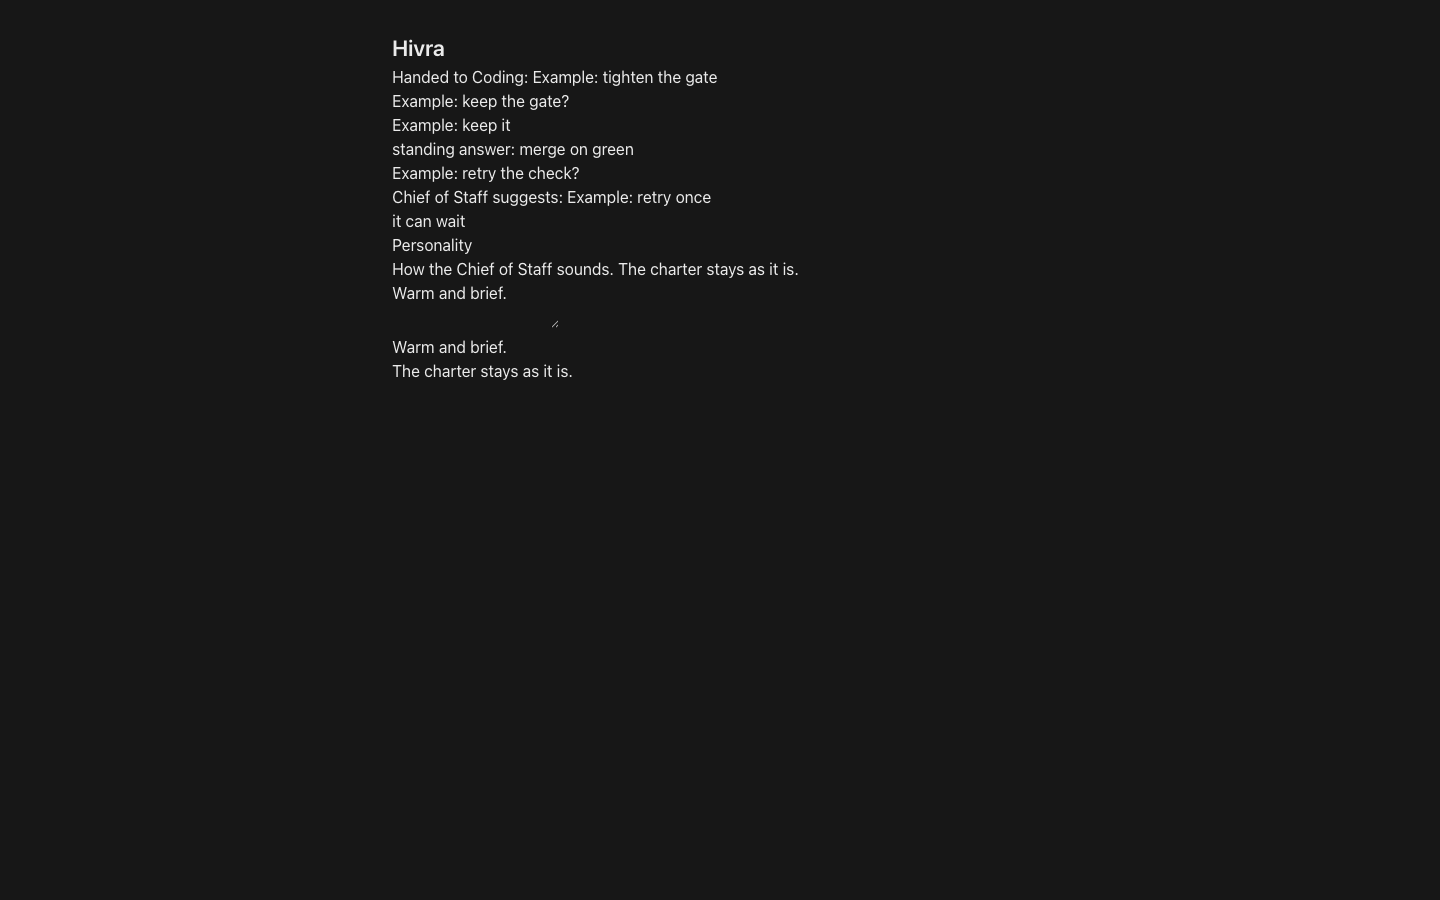
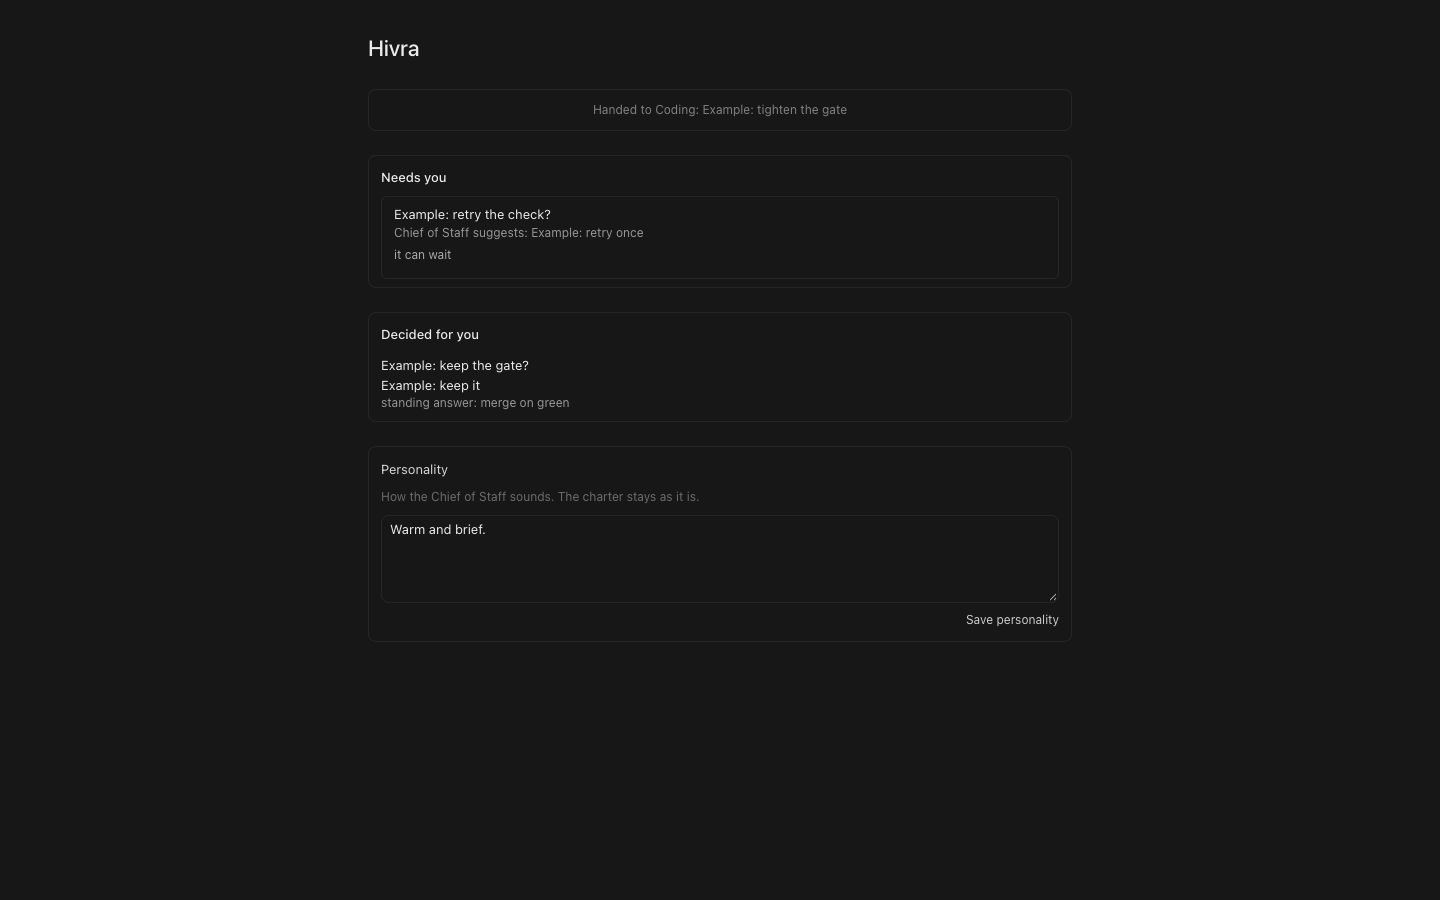
Show the captain lines in the app's own components
The handoff uses the chat's system line, the passed-up item uses the question row, and decided-for-you is a plain list in the app's tokens.

diff --git a/tests/browser/wp215-captain.tsx b/tests/browser/wp215-captain.tsx
@@ -1,11 +1,16 @@
 // Browser proof for the captain (WP-215). Example rows only. The charter text stays off the page.
-import { useState } from "react";
+import { useLayoutEffect, useRef } from "react";
 import { createRoot } from "react-dom/client";
 import { captainDecide, handoffLine, suggestLine } from "../../src/features/chief/model/captain";
 import { CAPTAIN_CHARTER, applyPersonality, personalityOf } from "../../src/features/chief/model/charter";
+import { CaptainPersonality } from "../../src/features/chief/ui/CaptainPersonality";
+import type { FirstMateItem } from "../../src/features/crew/model/inbox";
+import { FirstMateInbox } from "../../src/features/crew/ui/FirstMateInbox";
+import { RoomMessage } from "../../src/features/hub/ui/RoomMessage";
+import type { ChatMessage } from "../../src/features/hub/model/types";
 import "../../src/styles/index.css";
 
-const soul = `# Soul\n\n## Role\n${CAPTAIN_CHARTER}\n\n## Personality\n\n## Who I am\nI am the coordinator.\n\n## Every project\n\nEvery project: read\n`;
+const soul = `# Soul\n\n## Role\n${CAPTAIN_CHARTER}\n\n## Personality\nWarm and brief.\n\n## Who I am\nI am the coordinator.\n`;
 
 const standing = captainDecide({
   project: "Hivra",
@@ -30,33 +35,73 @@ const passed = captainDecide({
   turn: () => ({ passUp: true, suggest: "Example: retry once", reason: "it can wait" }),
 });
 
+const handoff = handoffLine("Coding", "Example: tighten the gate");
+const suggestion = passed.kind === "ask-owner" && passed.line ? passed.line : suggestLine("Example: retry once");
+const reason = passed.kind === "ask-owner" ? passed.reason : "";
+const answer = standing.kind === "answer" ? standing.answer : "";
+const why = standing.kind === "answer" ? standing.reason : "";
+
+const handoffMessage: ChatMessage = { id: "handoff", from: "app", kind: "system", text: handoff };
+
+const passedUp: FirstMateItem = {
+  id: "pass",
+  kind: "question",
+  title: "Example: retry the check?",
+  body: reason,
+  statusWord: suggestion,
+  chatId: null,
+  workerIds: [],
+  options: [],
+  recommended: null,
+  project: "EXO",
+  key: null,
+  since: 0,
+  updatedAt: 1,
+};
+
 function Page() {
-  const [text, setText] = useState("Warm and brief.");
-  const next = applyPersonality(soul, text);
-  const kept = next.includes(CAPTAIN_CHARTER) && next.indexOf(CAPTAIN_CHARTER) === soul.indexOf(CAPTAIN_CHARTER);
-  const handoff = handoffLine("Coding", "Example: tighten the gate");
-  const suggestion = passed.kind === "ask-owner" && passed.line ? passed.line : suggestLine("Example: retry once");
+  const passRef = useRef<HTMLDivElement>(null);
+  const kept = applyPersonality(soul, personalityOf(soul)).includes(CAPTAIN_CHARTER);
+  useLayoutEffect(() => {
+    const lines = passRef.current?.querySelectorAll("article p");
+    lines?.[0]?.setAttribute("data-testid", "passup");
+    lines?.[1]?.setAttribute("data-testid", "passup-reason");
+  }, []);
   return (
-    <main style={{ maxWidth: 720, margin: "0 auto", padding: 32, fontFamily: "system-ui, sans-serif" }}>
-      <h1 style={{ fontSize: 22, fontWeight: 600 }}>Hivra</h1>
-      <p data-testid="handoff">{handoff}</p>
-      <section>
-        <h2 style={{ fontSize: 16 }}>Example: keep the gate?</h2>
-        <p data-testid="standing-answer">{standing.kind === "answer" ? standing.answer : ""}</p>
-        <p data-testid="standing-reason">{standing.kind === "answer" ? standing.reason : ""}</p>
-      </section>
-      <section>
-        <h2 style={{ fontSize: 16 }}>Example: retry the check?</h2>
-        <p data-testid="passup">{suggestion}</p>
-        <p data-testid="passup-reason">{passed.kind === "ask-owner" ? passed.reason : ""}</p>
-      </section>
-      <section>
-        <h2 style={{ fontSize: 16 }}>Personality</h2>
-        <p>How the Chief of Staff sounds. The charter stays as it is.</p>
-        <textarea aria-label="Personality" value={text} onChange={(event) => setText(event.target.value)} />
-        <p data-testid="personality">{personalityOf(next)}</p>
-        <p data-testid="charter-kept">{kept ? "The charter stays as it is." : "The charter moved."}</p>
-      </section>
+    <main className="min-h-screen bg-background-base text-content">
+      <div className="mx-auto flex max-w-3xl flex-col gap-6 px-8 py-8">
+        <h1 className="text-[22px] font-medium text-content">Hivra</h1>
+        <section className="rounded-lg border border-stroke px-3 py-3" data-testid="handoff">
+          <RoomMessage chatId="room" message={handoffMessage} messages={[handoffMessage]} nameOf={() => "App"} />
+        </section>
+        <section className="rounded-lg border border-stroke">
+          <h2 className="px-3 pt-3 text-[13px] font-medium text-content">Needs you</h2>
+          <div ref={passRef}>
+            <FirstMateInbox items={[passedUp]} />
+          </div>
+        </section>
+        <section className="rounded-lg border border-stroke">
+          <h2 className="px-3 pt-3 text-[13px] font-medium text-content">Decided for you</h2>
+          <div className="px-3 py-2.5">
+            <div className="break-words text-[13px] leading-5 text-content">Example: keep the gate?</div>
+            <div className="break-words text-[13px] leading-5 text-content" data-testid="standing-answer">
+              {answer}
+            </div>
+            <div className="text-xs text-content/60" data-testid="standing-reason">
+              {why}
+            </div>
+          </div>
+        </section>
+        <section className="rounded-lg border border-stroke">
+          <CaptainPersonality monoId="ada" soul={soul} />
+          <p className="sr-only" data-testid="personality">
+            {personalityOf(soul)}
+          </p>
+          <p className="sr-only" data-testid="charter-kept">
+            {kept ? "The charter stays as it is." : "The charter moved."}
+          </p>
+        </section>
+      </div>
     </main>
   );
 }

diff --git a/tests/browser/wp215-captain.html b/tests/browser/wp215-captain.html
@@ -4,7 +4,7 @@
     <meta charset="UTF-8" />
     <title>Chief of Staff</title>
   </head>
-  <body style="margin: 0; background: #1b1b1d; color: #eee">
+  <body style="margin: 0">
     <div id="root"></div>
     <script type="module" src="./wp215-captain.tsx"></script>
   </body>
